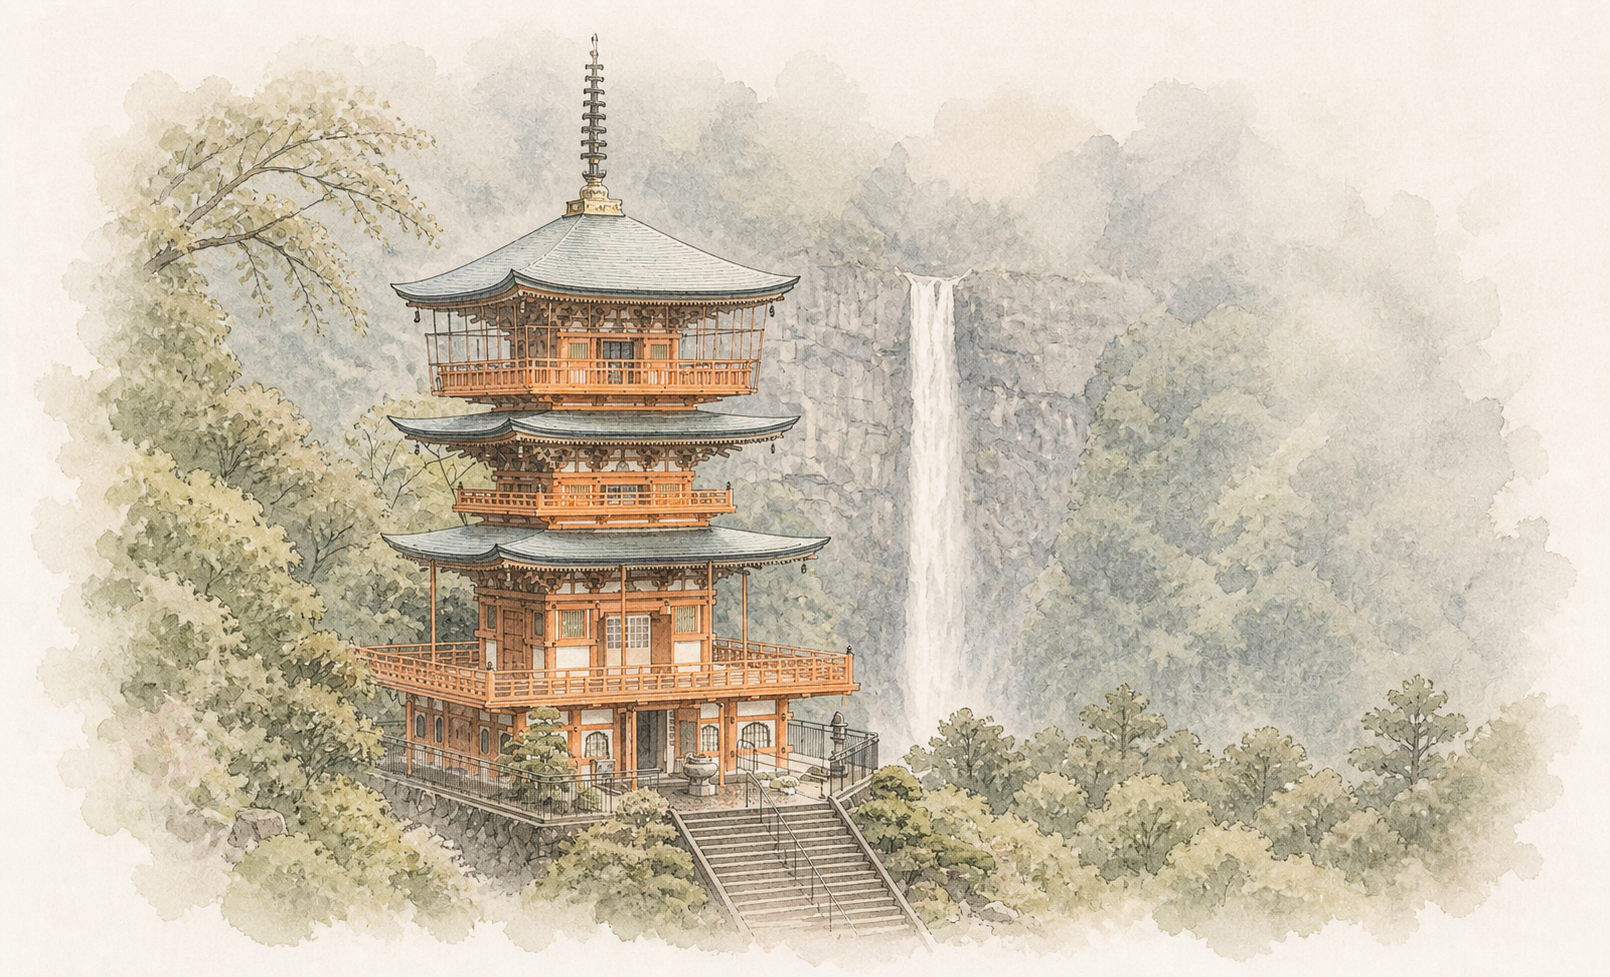
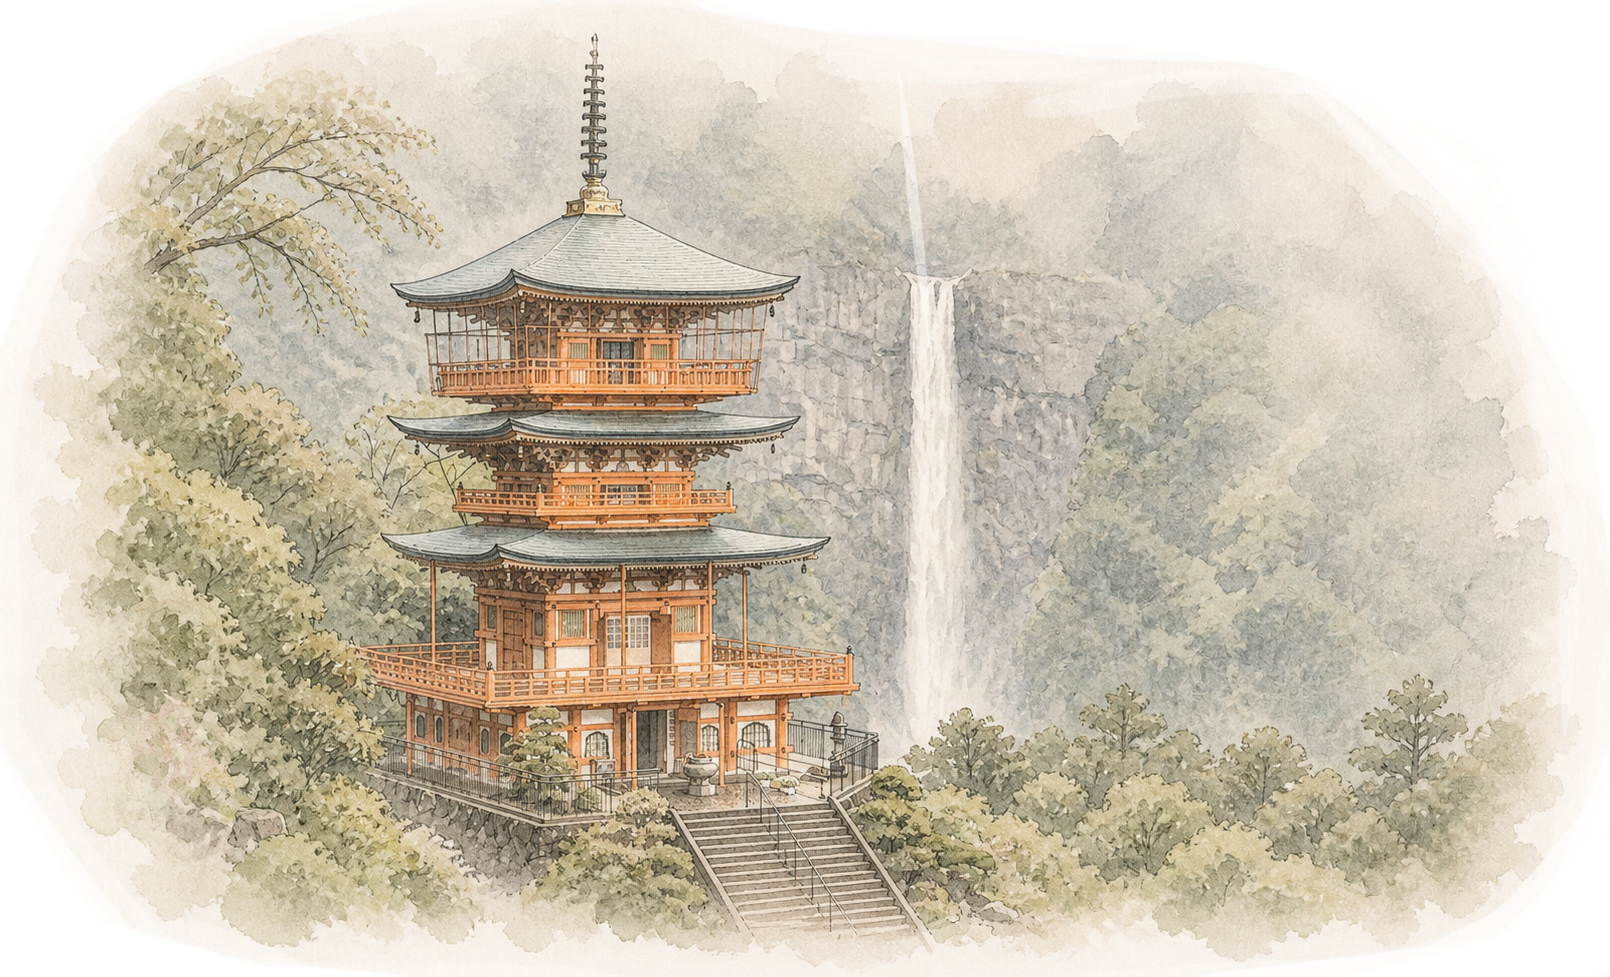
Background of Images Transparent

Changed region(s): [[0.559, 0.0, 1.0, 0.3378], [0.0311, 0.0614, 0.1242, 0.1842], [0.559, 0.1842, 0.5901, 0.2764]]

diff --git a/js/config.js b/js/config.js
@@ -19,7 +19,7 @@ export const config = {
   ceremony: {
     name: "Capela de Nossa Senhora do Mar",
     address: "Zambujeira do Mar",
-    photo: "/assets/chapel.png?v=2",
+    photo: "/assets/chapel-transparent.png",
     lat: 0, // TODO: pin from Google Maps for sharper map deep-links
     lng: 0,
   },
@@ -33,7 +33,7 @@ export const config = {
 
   honeymoon: {
     image: {
-      src: "/assets/japan.png",
+      src: "/assets/japan.png?v=2",
       alt: "Ilustração de um templo no Japão",
     },
     description:

diff --git a/css/styles.css b/css/styles.css
@@ -452,8 +452,12 @@ section {
   filter: saturate(0.94) contrast(0.98) brightness(1.01);
 }
 
+.section-photo,
 .venue__photo {
-  opacity: 0.9;
+  background: transparent;
+  border-radius: 0;
+  filter: none;
+  opacity: 1;
 }
 
 .venue__trigger {

diff --git a/requirements.md b/requirements.md
@@ -67,7 +67,7 @@ export const config = {
   ceremony: {
     name: "Capela de Nossa Senhora do Mar",
     address: "Zambujeira do Mar",
-    photo: "/assets/chapel.png?v=2",
+    photo: "/assets/chapel-transparent.png",
     lat: 0, lng: 0,                    // for maps deep-links (0 = address fallback)
   },
   reception: {
@@ -76,7 +76,7 @@ export const config = {
     lat: 0, lng: 0,
   },
   honeymoon: {
-    image: { src: "/assets/japan.png", alt: "Ilustração de um templo no Japão" },
+    image: { src: "/assets/japan.png?v=2", alt: "Ilustração de um templo no Japão" },
     bankTransfer: { label: "NIF", value: "PLACEHOLDER_NIF" },
     description: "...",
   },
@@ -96,7 +96,7 @@ export const config = {
 4. **Date (clickable)** — clicking downloads a `wedding.ics` file that adds the event to any calendar.
 5. **Cerimónia** — chapel name + address; tap to open the maps dialog with the chapel's deep-links.
 6. **Receção** — reception venue name + address; tap to open the maps dialog with the reception's deep-links.
-7. **Chapel photo** — chapel image from `config.ceremony.photo`, shown immediately after the ceremony/reception addresses at 90% opacity.
+7. **Chapel photo** — chapel image from `config.ceremony.photo`, shown immediately after the ceremony/reception addresses as a PNG with alpha transparency preserved. The image element and parent section must not add a white or coloured background.
 8. **RSVP** — button reveals a form (see RSVP section below).
 9. **Lua-de-mel no Japão** — short paragraph + visible bank-transfer detail (`NIF` placeholder) + "Copiar NIF" button, with the Japan illustration below the transfer details.
 10. **Informações importantes** — accordion of host-written practical notes, including clothing, coat, shoes, where to stay, parking, timings, and rain plan.
@@ -189,7 +189,7 @@ Numbered steps to: create the Sheet, paste the provided Apps Script (≈ 20 line
 ## Honeymoon gift
 
 - No external payment page.
-- Show the Japan illustration from `config.honeymoon.image` below the bank-transfer details at the same rendered size as the chapel image.
+- Show the Japan illustration from `config.honeymoon.image` below the bank-transfer details at the same rendered size as the chapel image. Keep it as a PNG/WebP with alpha transparency preserved.
 - Show the bank-transfer detail directly from `config.honeymoon.bankTransfer`.
 - Current label is `NIF` because that is what the host requested; if this should actually be NIB/IBAN, change only `config.honeymoon.bankTransfer.label` and `value`.
 - Button copies the value to the clipboard and shows a short inline state ("NIF copiado", "NIF por confirmar", or fallback copy guidance).
@@ -258,7 +258,7 @@ Do not include "Posso levar crianças?" or "Posso levar acompanhante?" here beca
 - **Countdown:** removed — host preference.
 
 ### Still pending before launch
-- **Chapel photo** — save as `/assets/chapel.png`.
+- **Chapel photo** — save as `/assets/chapel-transparent.png`; keep PNG/WebP alpha transparency intact.
 - **Lat/lng** for both venues — optional polish; address fallback works in the meantime.
 - **Carousel photos** — current replacement set is saved into `/assets/carosel photos/` and listed in `config.gallery`.
 - **Honeymoon bank-transfer value** — currently labelled as NIF per host request; replace `PLACEHOLDER_NIF` before launch.
